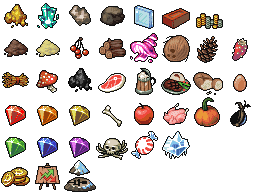
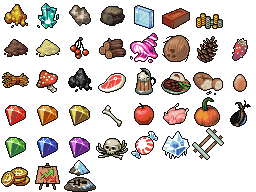
Rail resource

Changed region(s): [[0.75, 0.6562, 0.875, 0.8438]]

diff --git a/DwarfCorp/DwarfCorpXNA/Gui/Widgets/GodMenu.cs b/DwarfCorp/DwarfCorpXNA/Gui/Widgets/GodMenu.cs
@@ -199,7 +199,7 @@ namespace DwarfCorp.Gui.Widgets
                                             {
                                                 var railTool = Master.Tools[GameMaster.ToolMode.BuildRail] as Rail.BuildRailTool;
                                                 railTool.Pattern = p;
-                                                railTool.SelectedResources = new List<ResourceAmount>(new ResourceAmount[] { new ResourceAmount(ResourceType.Iron, 2) });
+                                                railTool.SelectedResources = new List<ResourceAmount>(new ResourceAmount[] { new ResourceAmount("Rail", 1) });
                                                 Master.ChangeTool(GameMaster.ToolMode.BuildRail);
                                                 railTool.GodModeSwitch = true;
                                             }

diff --git a/DwarfCorp/DwarfCorpXNA/Voxels/Rail/BuildRailTool.cs b/DwarfCorp/DwarfCorpXNA/Voxels/Rail/BuildRailTool.cs
@@ -60,9 +60,9 @@ namespace DwarfCorp.Rail
             Description = "Rail.",
             RequiredResources = new List<Quantitiy<Resource.ResourceTags>>
                         {
-                            new Quantitiy<Resource.ResourceTags>(Resource.ResourceTags.Metal, 2)
+                            new Quantitiy<Resource.ResourceTags>(Resource.ResourceTags.Rail, 1)
                         },
-            Icon = new Gui.TileReference("beartrap", 0),
+            Icon = new Gui.TileReference("resources", 38),
             BaseCraftTime = 10,
             Prerequisites = new List<CraftItem.CraftPrereq>() { CraftItem.CraftPrereq.OnGround },
             CraftLocation = "",

diff --git a/DwarfCorp/DwarfCorpXNA/GameStates/PlayState.cs b/DwarfCorp/DwarfCorpXNA/GameStates/PlayState.cs
@@ -1459,7 +1459,7 @@ namespace DwarfCorp.GameStates
                                     railTool.Pattern = data;
                                     railTool.SelectedResources = new List<ResourceAmount>
                                     {
-                                        new ResourceAmount(ResourceType.Iron, 2)
+                                        new ResourceAmount("Rail", 1)
                                     };
                                     ChangeTool(GameMaster.ToolMode.BuildRail);
                                 },

diff --git a/DwarfCorp/DwarfCorpXNA/Scripting/CompoundActs/CraftItemAct.cs b/DwarfCorp/DwarfCorpXNA/Scripting/CompoundActs/CraftItemAct.cs
@@ -196,7 +196,7 @@ namespace DwarfCorp
             }
 
             Resource resource = ResourceLibrary.Resources[ResourceCreated];
-            Creature.Inventory.AddResource(new ResourceAmount(resource, 1));
+            Creature.Inventory.AddResource(new ResourceAmount(resource, Item.ItemType.CraftedResultsCount));
             Creature.AI.AddXP((int)Item.ItemType.BaseCraftTime);
             yield return Status.Success;
         }

diff --git a/DwarfCorp/DwarfCorpXNA/Scripting/Crafting/CraftItem.cs b/DwarfCorp/DwarfCorpXNA/Scripting/Crafting/CraftItem.cs
@@ -72,6 +72,7 @@ namespace DwarfCorp
         public string Description = "";
         public CraftType Type = CraftType.Object;
         public List<CraftPrereq> Prerequisites = new List<CraftPrereq>();
+        public int CraftedResultsCount = 1;
         public ResourceType ResourceCreated = "";
         public string CraftLocation = "Anvil";
         public string Verb = "Build";

diff --git a/DwarfCorp/DwarfCorpXNA/Scripting/Player/Economy/Resource.cs b/DwarfCorp/DwarfCorpXNA/Scripting/Player/Economy/Resource.cs
@@ -117,7 +117,8 @@ namespace DwarfCorp
             Fruit,
             Gourd,
             Evil,
-            Jolly
+            Jolly,
+            Rail
         }
 
         public Resource()
